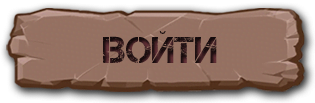
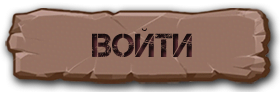
fix: fix style for auth button

diff --git a/client/src/components/Auth/auth.scss b/client/src/components/Auth/auth.scss
@@ -7,7 +7,7 @@
   width: 100vw;
   height: 100vh;
   font-family: 'Capture Smallz';
-  margin-left: 10rem;
+  margin: 0 5rem 0 10rem;
   font-size: 3rem;
   display: flex;
   flex-direction: column;
@@ -15,13 +15,15 @@
   align-items: flex-start;
   row-gap: 2rem;
   background: url('../../assets/images/auth_bgr.jpg') no-repeat;
-  background-position-x: right;
-
+  background-position-y: bottom;
+  background-size: 100%;
+ 
   .auth-menu {
     display: flex;
     flex-direction: row;
     justify-content: space-around;
     align-items: center;
+    margin-top: 2rem;
     column-gap: 1rem;
     color: #9a665f;
 
@@ -44,7 +46,7 @@
     justify-content: center;
     align-items: center;
 
-    .auth-message {
+    .auth-message {      
       font-size: 2.1rem;
       height: 2rem;
       color: #cfbf61;
@@ -60,7 +62,7 @@
       flex-direction: column;
       justify-content: flex-start;
       align-items: center;
-      row-gap: 5rem;
+      row-gap: 5rem;      
       color: #261c17;
       &.register {
         padding: 5.5rem 20rem;
@@ -85,32 +87,36 @@
     }
 
     .button-enter {
-      width: 30rem;
-      height: 10rem;
+      width: 22rem;
+      height: 9rem;     
       border: 0;
       background: url('../../assets/images/enter_button.png') no-repeat;
       background-size: contain;
       outline: none;
       &:hover {
         background: url('../../assets/images/enter_button_light.png') no-repeat;
+        background-size: contain;
       }
       &.active {
         background: url('../../assets/images/enter_button_click.png') no-repeat;
+        background-size: contain;
       }
     }
 
     .button-send {
-      width: 30rem;
-      height: 10rem;
+      width: 22rem;
+      height: 9rem;
       border: 0;
       background: url('../../assets/images/send_button.png') no-repeat;
       background-size: contain;
       outline: none;
       &:hover {
         background: url('../../assets/images/send_button_light.png') no-repeat;
+        background-size: contain;
       }
       &.active {
         background: url('../../assets/images/send_button_click.png') no-repeat;
+        background-size: contain;
       }
     }
   }
